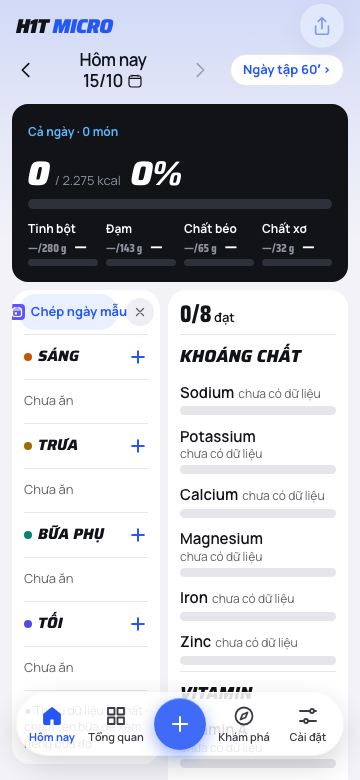
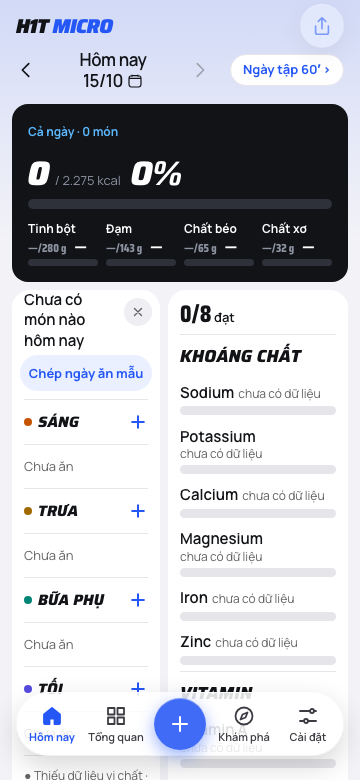
rename-labels: the PR note and open questions for the second review round, and the pill screenshots

diff --git a/docs/pr/feat-rename-labels.md b/docs/pr/feat-rename-labels.md
@@ -1,38 +1,29 @@
-# feat/rename-labels: clearer names, and a shorter add toast
+# feat/rename-labels: clearer names, a 4 s add toast, the full "Chép ngày ăn mẫu", and release 2026-10-22a
 
-Front end only (apps/web). **Stacks on `feat/v3-cleanup` (#48)**, which stacks on `feat/ngay-mau` (#47 → #46 → #45 → #44). Retarget as the stack merges. No route path, storage key, category key or API field changes (`cua_toi`, `/explore/meals`, `/explore/ngay-mau`, the `h1t_*` keys are as they were). No behaviour change beyond the toast time. Commits by Vu Thien Minh Hao.
+Front end only (apps/web). **Stacks on `feat/v3-cleanup` (#48)**, which stacks on `feat/ngay-mau` (#47 → #46 → #45 → #44); `feat/v3-cleanup` is merged into this branch (including its ChipScroller fix). Retarget as the stack merges. No route path, storage key, category key or API field changes (`cua_toi`, `/explore/meals`, `/explore/ngay-mau`, the `h1t_*` keys are as they were). Commits by Vu Thien Minh Hao.
 
-## A. Three names
+## What changed in the second review round
+1. **Save-meal wording** ("lưu" twice read badly): the meal ⋯ menu item is **Lưu bữa này** (was "Lưu vào Bữa ăn đã lưu"); the toast **Đã lưu <tên> · N món**; the empty state of Bữa ăn đã lưu **Mở ⋯ ở một bữa trên Hôm nay và chọn Lưu bữa này.** The probes that used the old text follow (`cc2_10`, `cc2_12`, `cc2_19b`, `cc_22`). No tip or tour step named it.
+2. **The pill, in full.** The card of an empty day no longer squeezes the pill beside its ×. It now shows its own line ("Chưa có món nào hôm nay", no longer screen-reader only) with the 44 px **×** at the top right, and under it the copy button in a **row of its own: full width, 44 px tall, one line**. The label is the full **Chép ngày ăn mẫu** (the pill, its tip and its tour step). The small glyph before the label steps aside when the row is narrow (a container query: it is hidden at 360 px, shown at 390). Measured by `rename_labels.py`: the row is 132 px wide in a 148 px card at 360 and 162 px in 178 px at 390, one line, inside the card, not cut off. At 150 % text the label (about 170 px) is wider than any card of the phone, so it wraps to a second line inside a taller pill and is never cut off; it cannot be one line there. `docs/screenshots/rename-labels/pill-{360,390,360-text150}.png`.
+3. **Every add toast is 4 s**: a single add, a tray add, a copy (a meal, yesterday, a selection), adding a saved meal, applying a Ngày ăn mẫu and Chỉ ghi kcal all use `ADD_TOAST_MS` = 4000. Only a delete's Hoàn tác keeps `UNDO_TOAST_MS` = 8000 with its text "Hoàn tác trong 8 giây"; so does the Chuyển bữa move toast, which parks a delete's toast under it (a move is not an add). In-place update of consecutive adds into the same meal, restarting the timer, pause on touch and swipe to dismiss are unchanged (`toast_undo.py`, `toast-pause.test.ts`, `toast-swipe.test.ts`). `lib/__tests__/add-toast.test.ts` asserts `ADD_TOAST_MS` is 4000 and reads `diary-store.tsx`: every undoable toast is `ADD_TOAST_MS`, every delete toast `UNDO_TOAST_MS` = 8000. `toast_undo.py` reads the countdown bar: a tray add and a portion add last 4 s, a delete 8 s. (An earlier line of this note said the test "asserts 5000": it asserts 4000.)
+4. **Release id.** 2026-10-21c is live on main, so every item and tour step this stack added moved out of it into a new entry **2026-10-22a** at the top: Giao diện mới, Nút + ở từng bữa, Nhóm món có biểu tượng màu, Mẹo không làm phiền, So sánh món ngay khi đang thêm, Ngày ăn mẫu, Đổi tên cho dễ hiểu, and six tour steps (a meal's +, Ngày tập, Nhóm món có màu, So sánh món, ⋯ của ngày, Chép ngày ăn mẫu). **2026-10-21c is back to exactly origin/main's text**: its 8 items and its 2 tour steps (`git diff origin/main -- lib/releases.ts` shows only added lines). There were no full-label or fibre items in the stack. 22a's tour has 6 steps (AGENTS says 2–5; it is the six that were already in the stack's tour). `releases.test.ts`, `cc_46.py` and `cc_tutorials.py` follow (the newest release, the 12 history groups, the joined tour of 8 = 21c's two + 22a's six, the skipped-step cases). **sw.js VERSION is `2026-10-22.1`**: the stack already bumped it from main's `2026-10-21.8` (commit cec5649), which is the next value for release 22a; nothing further to bump.
+5. This note: the stale line is fixed and the above is listed.
+
+## A. Three names (first round, unchanged)
 | Was | Is | Where |
 |---|---|---|
 | Món của tôi | **Món ăn của tôi** | `food-categories.ts` label (so the `/explore/cua_toi` header, the add-sheet chip and the category lists follow), Khám phá › Của bạn row, the recipe page's heading and its line "Món ăn của tôi · N phần · N nguyên liệu" |
 | Tùy chỉnh thành món của tôi | **Tùy chỉnh món này** | the button on a recipe dish |
-| Bữa ăn của tôi | **Bữa ăn đã lưu** | Của bạn row, the `/explore/meals` header (subtitle now **Thêm lại cả bữa bằng một chạm**), the add sheet's carousel, the empty state, the manage sheet ("Xóa Bữa ăn đã lưu", "Bữa ăn đã lưu này (N món) sẽ bị xóa") |
-| Ngày mẫu / ngày mẫu | **Ngày ăn mẫu / ngày ăn mẫu** | the picker ("Chọn ngày ăn mẫu", its radio group), the list ("Chưa có ngày ăn mẫu", "+ Tạo ngày ăn mẫu"), the editor, the hide-pill label ("Ẩn gợi ý ngày ăn mẫu hôm nay"), the tip |
+| Bữa ăn của tôi | **Bữa ăn đã lưu** | Của bạn row, the `/explore/meals` header (subtitle **Thêm lại cả bữa bằng một chạm**), the add sheet's carousel, the empty state, the manage sheet |
+| Ngày mẫu / ngày mẫu | **Ngày ăn mẫu / ngày ăn mẫu** | the picker ("Chọn ngày ăn mẫu"), the list, the editor, the hide-pill label, the tip, and now "Chép ngày ăn mẫu" |
 
-Found by grep over all of `apps/web` (components, app routes, lib, hooks, releases, tips, tour, "Có gì mới", probes, unit tests) and docs: 29 source files, 7 unit-test files and 15 probes changed (comments included, so a grep for the old names is clean in source). Past docs (`docs/`, `design/`) are history and are left alone, and so is the text of the past release entries: "Món của tôi được lưu" (2026-10-18c) is untouched and its test still expects it.
-
-Two judgement calls (both in OPEN_QUESTIONS):
-- **"Chép ngày mẫu" stays.** "Chép ngày ăn mẫu" does not fit the pill: the card is 148 px at 360 and 178 px at 390 and the button beside its × is 100 and 130 px, so the longer label wrapped to two lines and was cut off. As the brief says, the pill, its tip and its tour step keep "Chép ngày mẫu". (That old label already wraps to two lines in the same pill and is cut off at 360; the card's layout is a separate question.)
-- **"Lưu thành Bữa ăn của tôi" is now "Lưu vào Bữa ăn đã lưu"** ("Lưu thành Bữa ăn đã lưu" reads wrongly); the hint in the empty state and the toast "Đã lưu <tên> vào Bữa ăn đã lưu · N món" follow it.
-- The recipe line is 13 px now: at 15 px the longer "Món ăn của tôi · 1 phần · 2 nguyên liệu" wrapped to two lines between the Back and the heart at 390.
-
-**Release.** One item in the open entry (2026-10-21c, not live yet): *Đổi tên cho dễ hiểu — Món ăn của tôi, Bữa ăn đã lưu, Ngày ăn mẫu.* (title and body, because an item holds no colon). The same entry's Ngày ăn mẫu body already said "Chép ngày mẫu" and stays so. No new release id; no past entry rewritten. Tour steps and tips that name a label were checked: they name "Chép ngày mẫu" and "Lưu ngày này thành mẫu", both unchanged.
-
-**Tests and probes updated** for the new names: `lib/__tests__` (food-categories, releases, tips, recipe, dish-edit, recipe-dishes, catalog-chunks) and 15 probes (`cc2_10`, `cc2_11`, `cc2_12`, `cc2_15b`, `cc2_19b`, `cc2_22`, `cc2_23`, `cc2_32`, `cc_22`, `cc_27b`, `cc_42_onboarding`, `cc_46`, `cc_52_training`, `cc_tutorials`, `ngay_mau`). New probe `rename_labels.py` (below).
+Found by grep over all of `apps/web` and docs; the text of past release entries is untouched ("Món của tôi được lưu", 2026-10-18c). The recipe line is 13 px: at 15 px the longer text wrapped to two lines between the Back and the heart at 390.
 
 ### No label cut off or wrapping at 360 px and at 150 % text (`rename_labels.py`)
-At 360, at 360 with the root text at 150 % and at 390:
-- **Của bạn**: Yêu thích, Bữa ăn đã lưu · N bữa, Món ăn của tôi · N món and Ngày ăn mẫu · N mẫu are each **one line at 100 % and never cut off**. At **150 % text** the count wraps under the name ("Bữa ăn đã lưu · 0 / bữa"): two lines, nothing cut off, as the layout rule for names allows.
-- Headers: `/explore/cua_toi` "Món ăn của tôi", `/explore/meals` "Bữa ăn đã lưu" with its new subtitle, `/explore/ngay-mau` "Ngày ăn mẫu": one h1, not cut off, none of the old names on the page.
-- The button "Tùy chỉnh món này" and the recipe line are one line and not cut off at 100 %.
-- The pill: reported in the probe (see above), not asserted.
-Screenshots in `docs/screenshots/rename-labels/`: `cua-ban-{360,360-text150,390}.png` (the Của bạn card), `food-page-{360,360-text150}.png` (the recipe dish with "Tùy chỉnh món này"), `recipe-page-360.png` (the page of the recipe it makes, with its one-line "Món ăn của tôi · N phần · N nguyên liệu"), `pill-360.png` ("Chép ngày mẫu", wrapping as before). The full set (390 and the 150 % shots of every case) is in `apps/web/.screenshots/v3-rename/` (gitignored).
-
-## B. The add toast
-`lib/add-toast.ts`: `ADD_TOAST_MS` 8000 → **4000**. It is only the toast `addedToast` builds, the add of a portion or a recent. Kept: `UNDO_TOAST_MS` (8 s, the delete undo and its text "Hoàn tác trong 8 giây"), the notice, added and update toasts; consecutive adds into the same meal still update the toast in place and restart its timer; touch pauses it; swipe dismisses it (`toast_undo.py`, `lib/__tests__/toast-pause.test.ts`, `toast-swipe.test.ts` are green; they read the countdown, not 8 s). `add-toast.test.ts` asserts 5000. No probe waited on 8 s.
-Flag for review (OPEN_QUESTIONS): the tray add, a copy, a saved meal and a Ngày ăn mẫu also show an "undoable" toast, but they use `UNDO_TOAST_MS` and so stay at 8 s, as the brief says to keep it; a person sees a 4 s toast after one add and an 8 s one after a tray add.
+- **Của bạn**: every label is one line at 100 % text and never cut off; at 150 % the count wraps under the name (two lines, nothing cut off).
+- Headers (`/explore/cua_toi`, `/explore/meals` with its subtitle, `/explore/ngay-mau`), "Tùy chỉnh món này" and the recipe line: one line, not cut off, none of the old names on the page.
+- The pill: see 2 above.
+Screenshots in `docs/screenshots/rename-labels/`: `cua-ban-{360,360-text150,390}.png`, `food-page-{360,360-text150}.png`, `recipe-page-360.png`, `pill-{360,390,360-text150}.png`; the full set is in `apps/web/.screenshots/v3-rename/` (gitignored).
 
 ## Gates
-- gate:fast after each commit: green.
-- **gate:full (5c84b21): all green, 763 s.** typecheck, lint:design, vitest (all unit tests), build:demo, test:align (73 s), test:hydration (107 s), probe:all (734 s: 135 PASS, 4 REPORT, 1 QUAR = design-floor-landing.py, 0 FAIL, 1 SKIP), check:live-bundle. Two earlier runs were red and fixed in their own commits: cc_22 (the meal menu's text is "Lưu vào …" now) and cc_46 (a past release's item name must stay "Món của tôi được lưu"); and the toast went from 5 s to 4 s, as corrected.
+gate:fast after each commit: green. gate:full: see below.

diff --git a/OPEN_QUESTIONS.md b/OPEN_QUESTIONS.md
@@ -498,6 +498,6 @@
 - [ ] (Hao) At 150 % text the share image's colour key overlaps itself in the half-width vi chất card ("Thiếu <0%ung bình"); the picture ignores the phone's text size anyway, so it only shows in the probe's stress pass. Same for a cramped dish name on Hôm nay at 360 px and 150 % ("Bún / đậ…"). The colour key half is fixed in fix/v3-cleanup (it wraps to two lines inside its columns; share_micros.py checks it at 150 %). The cramped dish name on Hôm nay at 360 px and 150 % is not part of that fix and is still open.
 - [ ] (Hao, v3-cleanup) A title clamped to two lines (`line-clamp-2`) now has 0.2em of padding above and below so Saira's marks are not cut (and the same negative margin so nothing moves). A title of three lines or more shows the top of its third line's marks, a few pixels of dots, under the ellipsis, because the padding is inside the clip. Long food names are the case. The cure is a taller line box (`leading-[1.35]`), which moves every header; not done.
 - [ ] (Hao, v3-cleanup) /settings/targets/macros at 200 % text: the Huỷ and Lưu buttons leave the title 29 px, so "Mục tiêu đa lượng" is cut at the right whatever the padding. title_clip.py skips a line wider than its clip for that reason; the header needs a layout of its own at large text.
-- [ ] (Hao, feat/rename-labels) "Chép ngày ăn mẫu" does not fit the pill at the top of the meals card of an empty day: the card is 148 px at 360 and 178 px at 390, and the button beside its × is 100 and 130 px, so it wrapped to two lines and was cut off. The pill keeps "Chép ngày mẫu" as the brief says. That old label itself already wraps to two lines in the same pill (and is cut off at 360 px); the card's layout needs a look, not part of this rename. Everything else reads "Ngày ăn mẫu".
-- [ ] (Hao, feat/rename-labels) Only the single add (a portion, a recent: `addedToast`) uses ADD_TOAST_MS, now 4 s. The other add toasts with Hoàn tác (a tray, a copy, a saved meal, a Ngày ăn mẫu) and every delete keep UNDO_TOAST_MS, 8 s, as the brief says (the delete undo stays 8 s). They look the same to a person, so the 4 s and the 8 s toast sit side by side; say if the others should follow.
-- [ ] (Hao, feat/rename-labels) The meal menu's "Lưu thành Bữa ăn của tôi" is now "Lưu vào Bữa ăn đã lưu" ("Lưu thành Bữa ăn đã lưu" reads wrong), and its empty-state hint and the toast "Đã lưu <tên> vào Bữa ăn đã lưu" follow it. The recipe line "Món ăn của tôi · N phần · N nguyên liệu" is 13 px now (15 px wrapped to two lines between the Back and the heart at 390).
+- [x] (Hao, feat/rename-labels) "Chép ngày ăn mẫu" did not fit the pill beside its × (the card is 148 px at 360 and 178 px at 390). Done: the card shows its line with the × at the top right and the copy button in its own full-width 44 px row, so the full label fits on one line at 360 and 390 px (its glyph steps aside at 360). At 150 % text the label is wider than the card and wraps to a second line inside a taller pill, never cut off.
+- [x] (Hao, feat/rename-labels) Every toast that adds food is 4 s now (a portion, a tray, a copy, a saved meal, a Ngày ăn mẫu, Chỉ ghi kcal); a delete's Hoàn tác (and a move's, which parks the delete's) keeps UNDO_TOAST_MS, 8 s, and its text "Hoàn tác trong 8 giây".
+- [x] (Hao, feat/rename-labels) The meal menu item is "Lưu bữa này", its toast "Đã lưu <tên> · N món" and the empty state of Bữa ăn đã lưu "Mở ⋯ ở một bữa trên Hôm nay và chọn Lưu bữa này." ("lưu" twice read badly). The recipe line "Món ăn của tôi · N phần · N nguyên liệu" is 13 px (15 px wrapped to two lines between the Back and the heart at 390).
